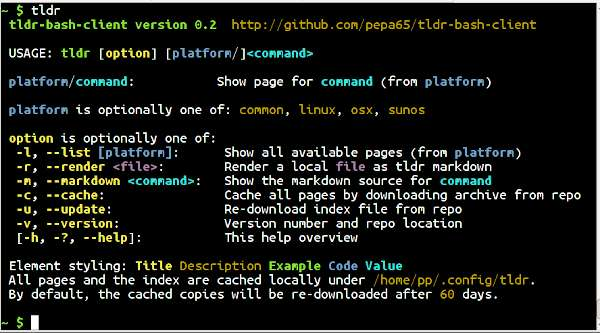
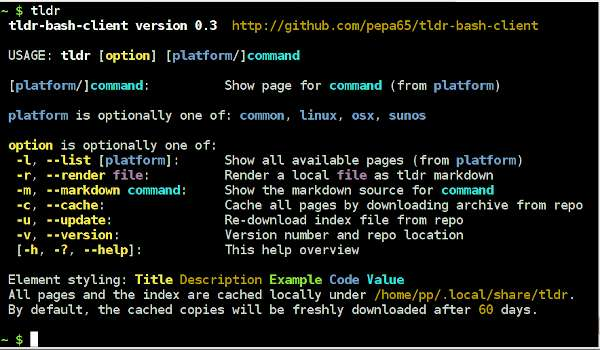
Release version 0.3 - More extensive colour customization, also help - Use $XDG_DATA_HOME if it exists - Bug: display pagename on linting errors

diff --git a/README.md b/README.md
@@ -1,6 +1,6 @@
 # tldr-bash-client
 
-* version 0.2
+* version 0.3
 * https://github.com/pepa65/tldr-bash-client
 
 ### Bash client for tldr: community driven man-by-example
@@ -22,7 +22,6 @@ sudo chmod +x $location
 ```
 
 If the location is not in $PATH, you need to specify the path to run it.
-
 Alternately, you can do `sudo bpkg-install pepa65/tldr` if you have
 [bpkg](https://github.com/bpkg/bpkg) installed.
 
@@ -35,18 +34,36 @@ coreutils, less, grep, unzip, curl / wget
 <img alt="tldr usage screenshot" src="tldr-usage.jpg" title="tldr usage" width="600" />
 
 ## Customisation
-The colors and other styling of the 5 elements of tldr pages can be modified
-either by editing the first few lines of the scipt, or by setting the following
-environment variables:
+
+The 5 elements in TLDR markup that can be styled with these colors and
+backgrounds (last one specified will be used) and modes (more can apply):
+* Colors: Black, Red, Green, Yellow, Blue, Magenta, Cyan, White
+* BG: BlackBG, RedBG, GreenBG, YellowBG, BlueBG, MagentaBG, CyanBG, WhiteBG
+* Modes: Bold, Underline, Italic, Inverse
+'Newline' can be added to the style list to add a newline before the element
+and 'Space' to add a space at the start of the line
+(style items are separated by space, lower/uppercase mixed allowed)
 * TLDR_TITLE_STYLE (defaults to: Newline Space Bold Yellow)
 * TLDR_DESCRIPTION_STYLE (defaults to: Space Yellow)
-* TLDR_EXAMPLE_STYLE (defaults to: Newline Bold Green)
+* TLDR_EXAMPLE_STYLE (defaults to: Newline Space Bold Green)
 * TLDR_CODE_STYLE (defaults to: Space Bold Blue)
-* TLDR_VALUE_STYLE (defaults to: Bold Cyan)
-
-Also the error color and page expiry can easily be set:
-* TLDR_ERROR_COLOR (defaults to: Red)
+* TLDR_VALUE_ISTYLE (defaults to: Space Bold Cyan)
+The Value style (above) is an Inline style: doesn't take Newline or Space
+Inline styles for help text: default, URL, option, platform, command, header
+* TLDR_DEFAULT_ISTYLE (defaults to: White)
+* TLDR_URL_ISTYLE (defaults to: Yellow)
+* TLDR_HEADER_ISTYLE (defaults to: Bold)
+* TLDR_OPTION_ISTYLE (defaults to: Bold Yellow)
+* TLDR_PLATFORM_ISTYLE (defaults to: Bold Blue)
+* TLDR_COMMAND_ISTYLE (defaults to: Bold Cyan)
+* TLDR_FILE_ISTYLE (defaults to: Bold Magenta)
+Color/BG (Newline and Space also allowed) for error and info messages
+* TLDR_ERROR_COLOR (defaults to: Newline Space Red)
+* TLDR_INFO_COLOR (defaults to: Newline Space Green)
+How many days before freshly downloading a potentially stale page
 * TLDR_EXPIRY (defaults to: 60)
+Alternative location of pages cache
+* TLDR_CACHE (not set by default)
 
 <img alt="tldr customize screenshot" src="tldr-customize.jpg" title="tldr customize" width="600" />
 
@@ -61,6 +78,7 @@ Or even better, send a pull request!
 
 ### License
 
-Relicensed under GPL v3+
+Original client by Ray Lee http://github.com/raylee/tldr (MIT license)
+Re-licensed under GPL v3+
 
 <img alt="tldr new markdown screenshot" src="tldr-markdown-new.jpg" title="tldr new markdown" width="600" />
